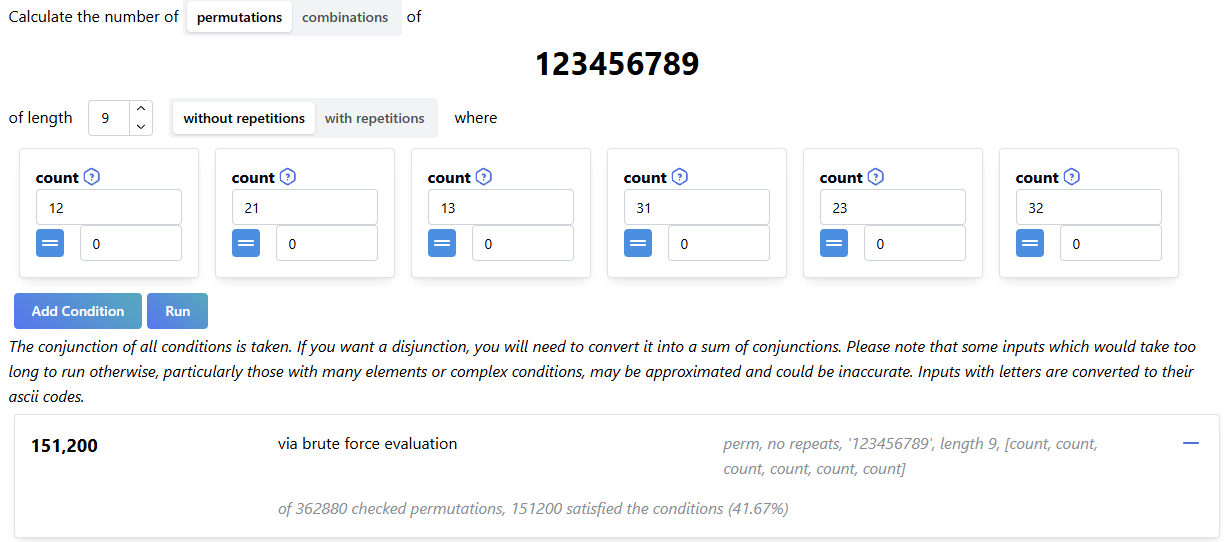
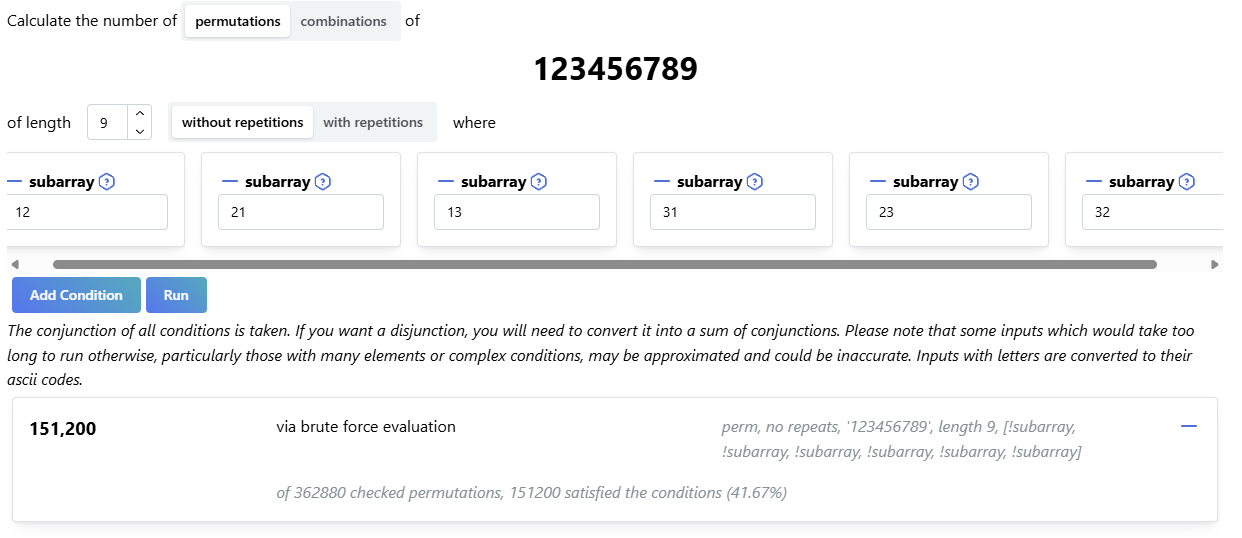
update readme

diff --git a/README.md b/README.md
@@ -7,7 +7,7 @@ A [website](https://szonglin.github.io/enumerator/) to perform simple enumeratio
 ### Things it can do:
 
 - Enumeration of permutations and combinations with or without repetition using a combination of brute force iterators and direct/dynamic approaches
-- Several applicable conditions, including:
+- Several applicable conditions (and their negations), including:
   - subarrays, subsequences, containment, exclusion, subarray count
   - monotonicity, palindromes, distinctness, derangements
   - sum, average, maximum, minimum
